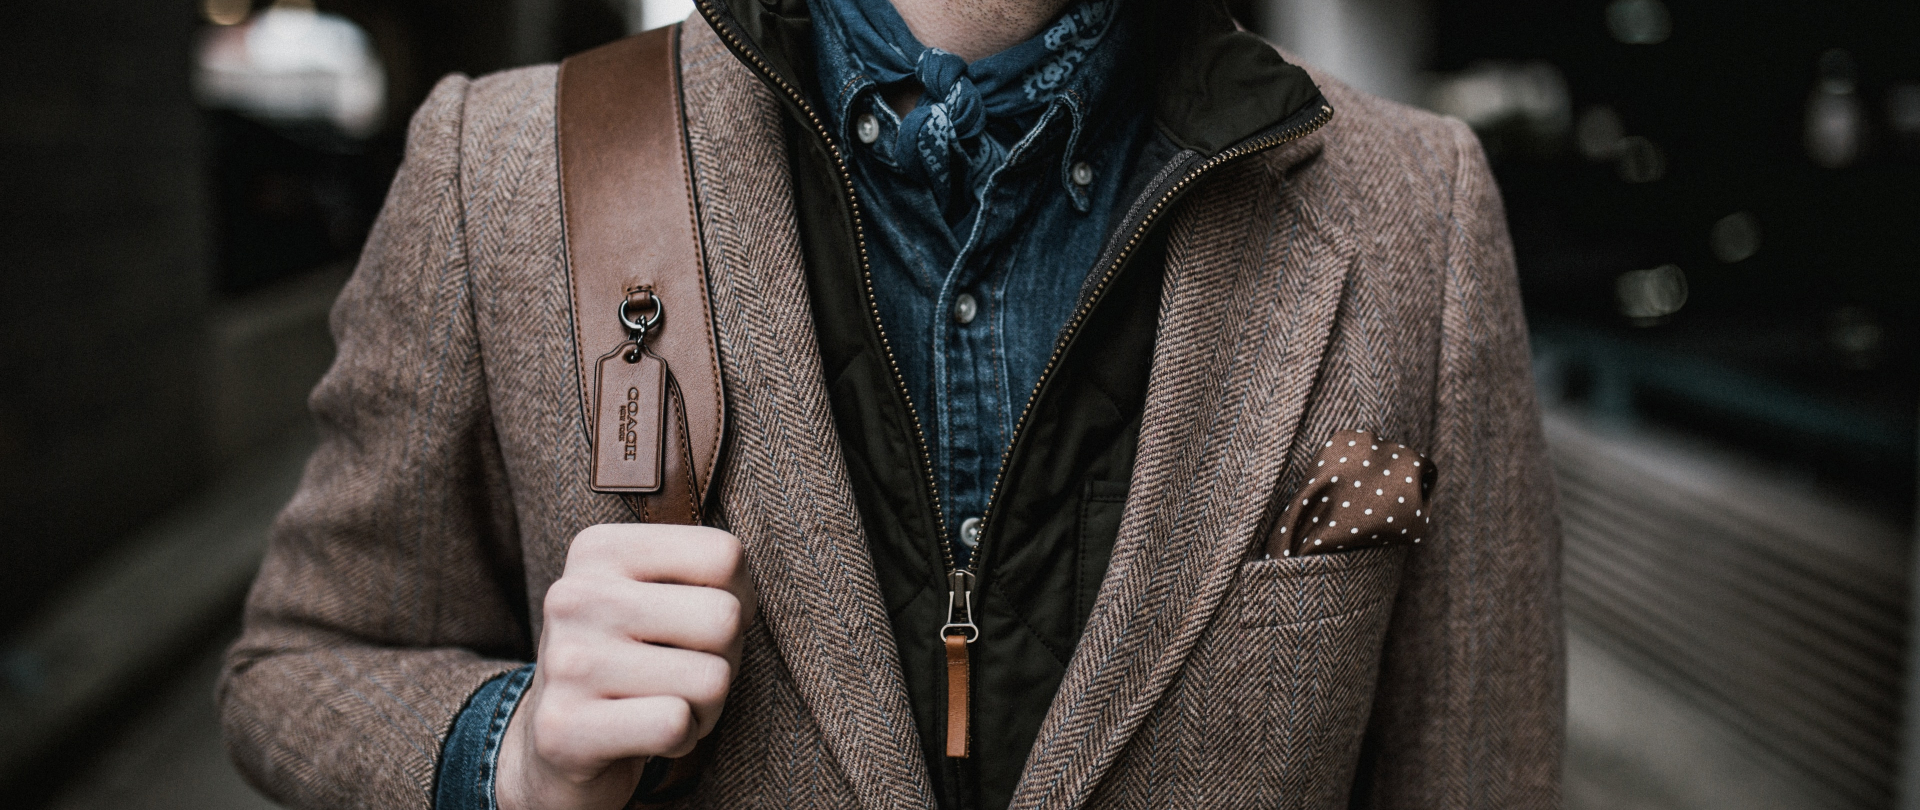
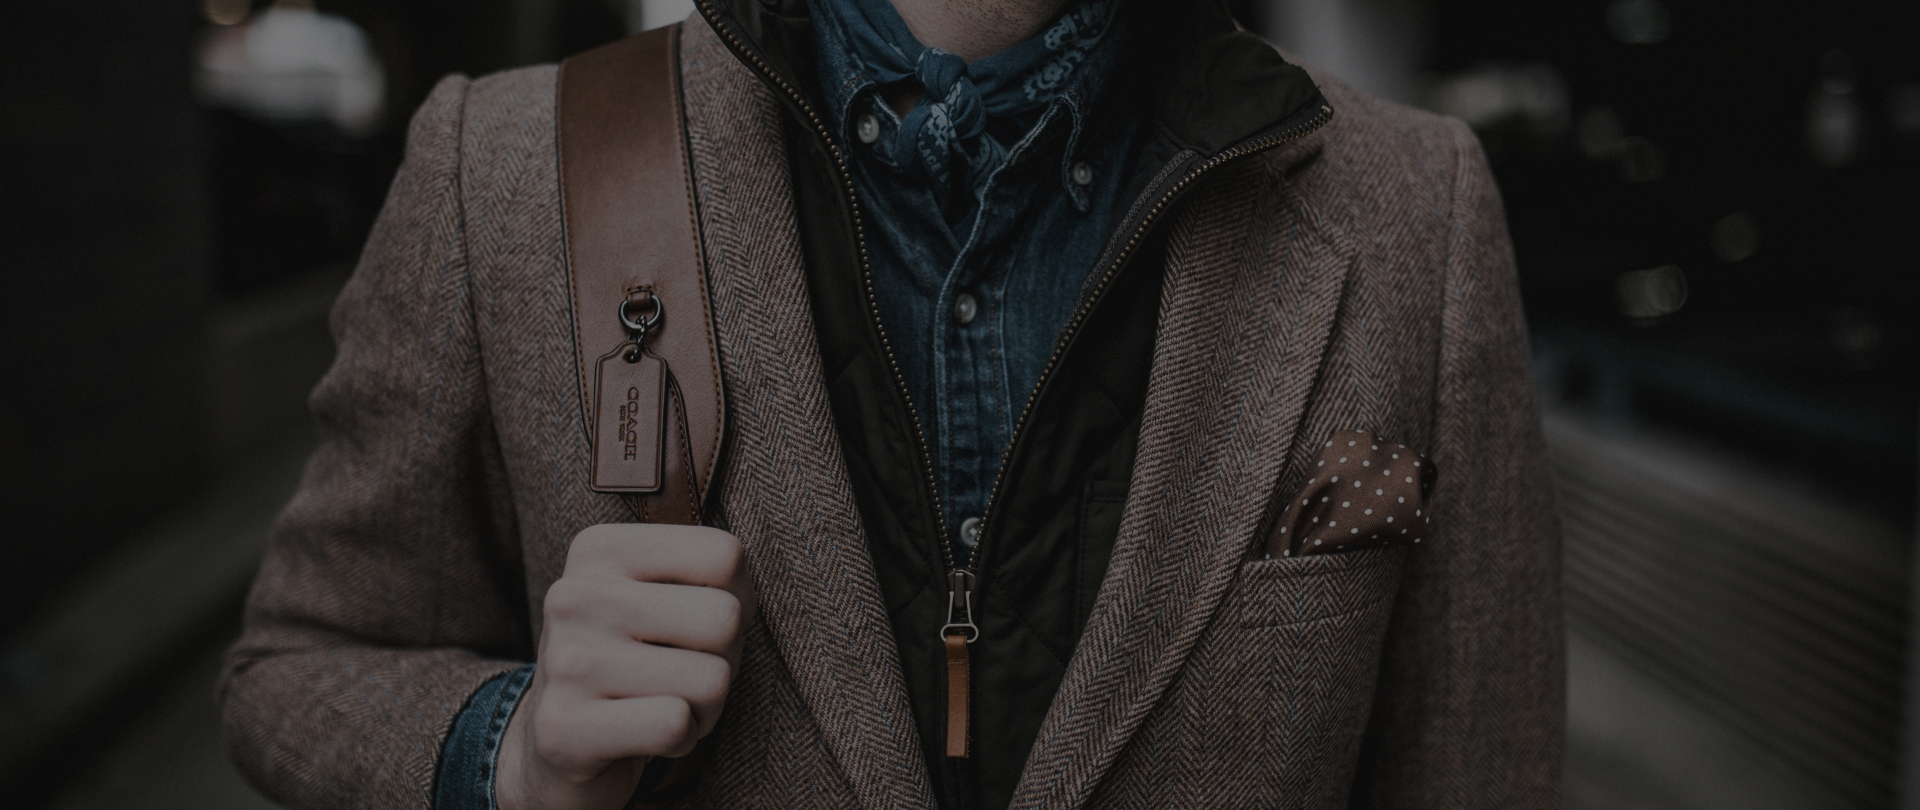
05.01.2021

diff --git a/css/style.css b/css/style.css
@@ -213,90 +213,29 @@
     height: 22px;
     margin-left: 30px;
 }
-.Main-background-img{
-    position: absolute;
-    width: 1920px;
-    height: 810px;
-    left: 0px;
-    top: 124px;
-    z-index: -5;
-    
+
+.container_first_screen{
+    background-image: url(../images/Main-background.jpg);
+    background-repeat: no-repeat;
+    background-size: cover;
+    background-position: center;
+    min-height: 810px;
+    display: block;
 }
-.Main-background-img-filter{
-    background: linear-gradient(0deg, rgba(15, 15, 15, 0.5), rgba(15, 15, 15, 0.5));
-    z-index: -4;
-    position: absolute;
-    width: 1920px;
-    height: 810px;
-    left: 0px;
-    top: 124px;
-}
+
+
 .logo{
-    position: absolute;
-    width: 320px;
-    height: 320px;
-    left: 650px;
-    top: 284px;
-    display: inline-block;
-}
-.logo_box{
-    position: absolute;
-    left: 650px;
-    top: 284px;
-    width: 320px;
-    height: 320px;
-    padding: 10px; 
-    border: 4px solid rgb(255, 255, 255); 
-   
-    box-sizing: border-box;
-}
-.top__logo-title{
-    
-    margin-left: auto;
-    margin-right: auto;
-    margin-top: 93px;
-    margin-bottom: 0;
-    width: 185px;
-    height: 86px;
-    align-self: center;
-    font-family: 'Post No Bills Jaffna';
-    font-style: normal;
-    font-weight: bold;
-    font-size: 64px;
-    line-height: 96px;
-    text-align: center;
-    color: #FFFFFF;
-    
-    
-}
-.line{
-    align-self: center;
-    width: 179px;
-    margin-top: -5px;
-    margin-bottom: 6px;
-    border: 1px solid #ffffff;
-    margin-left: auto;
-    margin-right: auto;
-    background: #FFFFFF;
-}
-.bottom__logo{
-    margin-left: auto;
-    margin-right: auto;
-    font-family: PT Sans;
-    font-style: normal;
-    font-weight: normal;
-    font-size: 22px;
-    line-height: 28px;
-    text-transform: uppercase;
-    color: #FFFFFF;
+
+    padding-top: 160px;
     text-align: center;
 }
+
 .first_screen-explanation{
-    position: absolute;
+    margin: 0 auto;
+    padding-top: 80px;
+    display: block;
     width: 730px;
     height: 96px;
-    left: 460px;
-    top: 684px;
     font-family: PT Sans;
     font-style: normal;
     font-weight: normal;

diff --git a/index.html b/index.html
@@ -66,20 +66,18 @@
       </div>
     </div>
   </header>
-  <img src="images/Main-background.jpg" alt="Main-background" class="Main-background-img">
-  <div class="Main-background-img-filter">
-  </div>
+  <!-- <img src="images/Main-background.jpg" alt="Main-background" class="Main-background-img"> -->
+  
+  
 
 <section class="first_screen">
-    <div class="container">
-      <span class="logo_box"></span>
+  <div class="container_first_screen">
       <div class="logo">
-      <div href="#" class="top__logo-title">
-        PORTEN
+        <a href="#">
+          <img class="logo_img" src="../Watch-store/images/logo.png">
+        </a>
       </div>
-      <div class="line"></div>
-      <div class="bottom__logo">санкт-петербург</div>
-    </div>
+      
     <div class="first_screen-explanation">
       Lorem ipsum dolor sit amet, consectetur adipiscing elit. Purus interdum purus, est tortor pulvinar ut in. Fringilla a diam enim sed justo, sed iaculis sagittis. Tortor id eu interdum nec ut iaculis. Penatibus ullamcorper ultricies morbi ipsum sem metus pharetra, mi. Tortor nibh magna feugiat id nunc, dui nisl viverra.
     </div>

diff --git a/css/media.css b/css/media.css
@@ -17,11 +17,15 @@
     .menu__list-item1 { 
         margin-right: 254px;
 }
+
 }
 
 @media(max-width:914px){
     .top_line-menu-item-registration{
         padding-left: 300px;
+}
+.container_first_screen{
+    min-height: 600px;
 }
 .menu__list-item1 { 
     margin-right: 154px;
